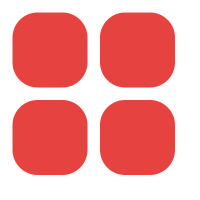
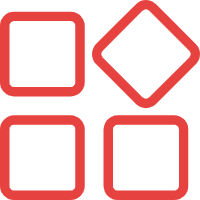
更换底部菜单icon

diff --git a/config.js b/config.js
@@ -1,6 +1,6 @@
 module.exports = {
-  version: "7.4.0",
-  note: '内页增加快速浮动导航、我的页面UI优化',
+  version: "7.4.1",
+  note: '商品海报增加关闭按钮',
   subDomain: "tz", // 根据教程 https://www.yuque.com/apifm/doc/qr6l4m 查看你自己的 subDomain
   appid: "wxa46b09d413fbcaff", // 您的小程序的appid，购物单功能需要使用
   shareProfile: '百款精品商品，总有一款适合您', // 首页转发的时候话术

diff --git a/template/share/index.js b/template/share/index.js
@@ -1,6 +1,6 @@
 const WXAPI = require('apifm-wxapi')
 let goodsDetail;
-const ctx = wx.createCanvasContext('firstCanvas');
+var ctx;
 const clientWidth = wx.getSystemInfoSync().screenWidth;
 
 function px(number) {
@@ -14,6 +14,7 @@ export default {
     page._saveToMobile = this._saveToMobile;
   },
   _createPoster(e) {
+    ctx = wx.createCanvasContext('firstCanvas');
     wx.showLoading({
       title: '正在生成海报',
     });

diff --git a/pages/goods-details/index.js b/pages/goods-details/index.js
@@ -641,4 +641,9 @@ Page({
     }
     AUTH.register(this);
   },
+  closePop(){
+    this.setData({
+      posterShow: false
+    })
+  }
 })

diff --git a/README.md b/README.md
@@ -37,6 +37,10 @@
 
 - [WeUI](https://github.com/Tencent/weui-wxss/)
 
+底部ICON图标使用：
+https://www.iconfont.cn/collections/detail?spm=a313x.7781069.0.da5a778a4&cid=13163
+
+
 ## 初始化测试数据
 
 登录后台，左侧菜单 “工厂设置” --> “数据克隆” --> “将别人的数据克隆给我”
